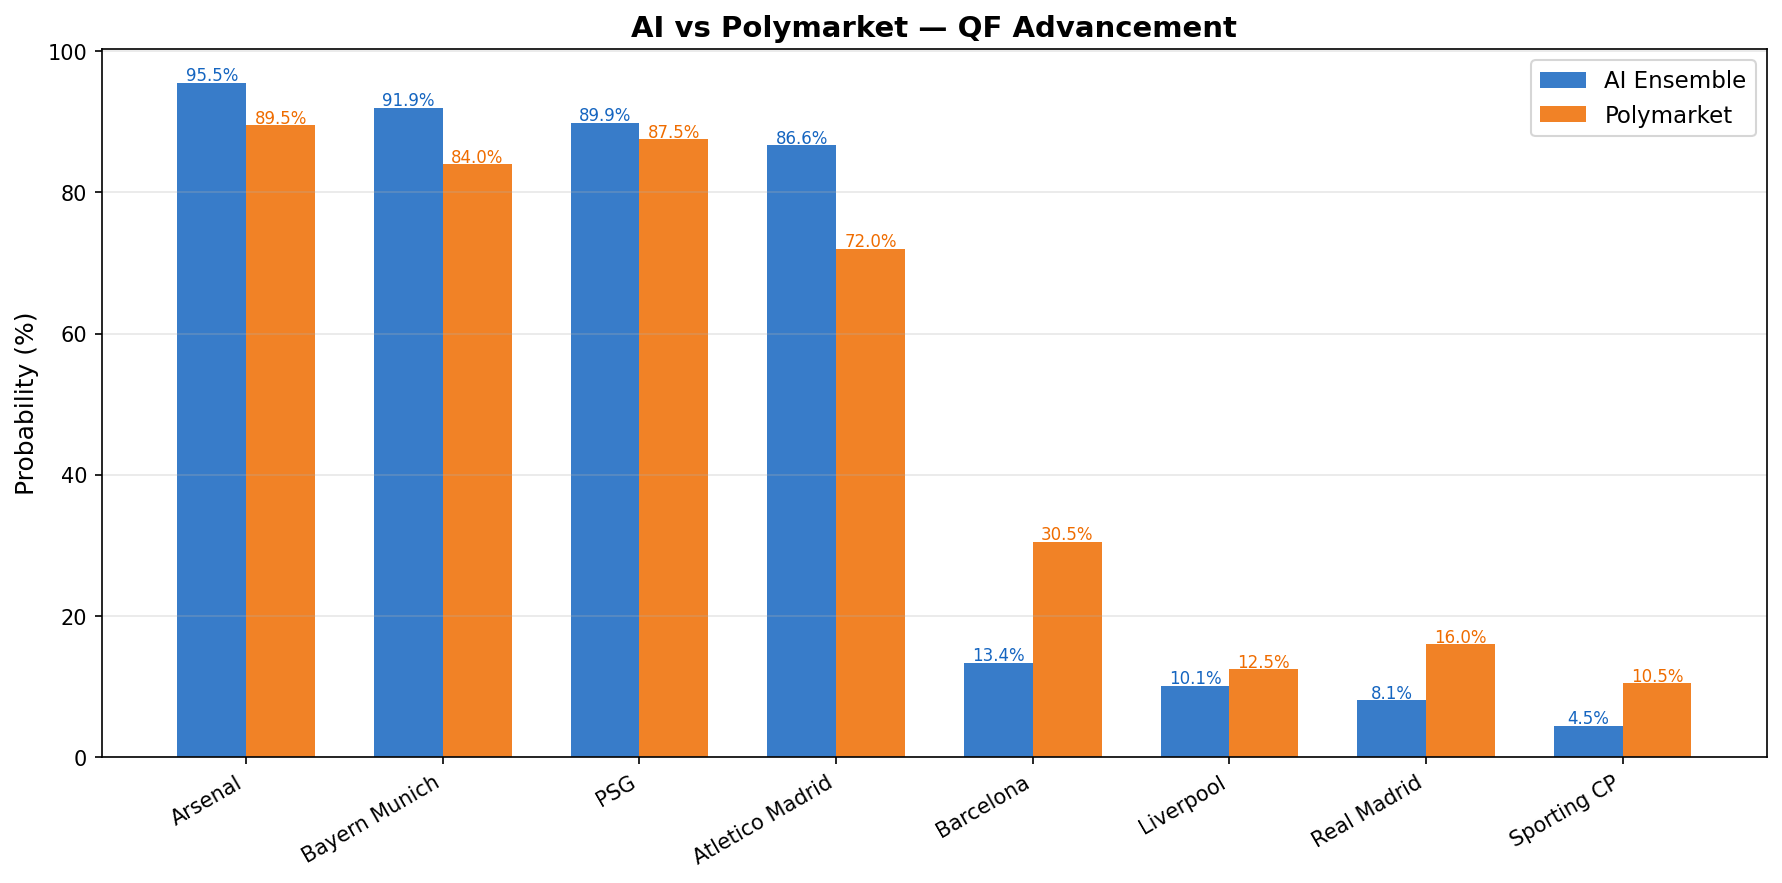
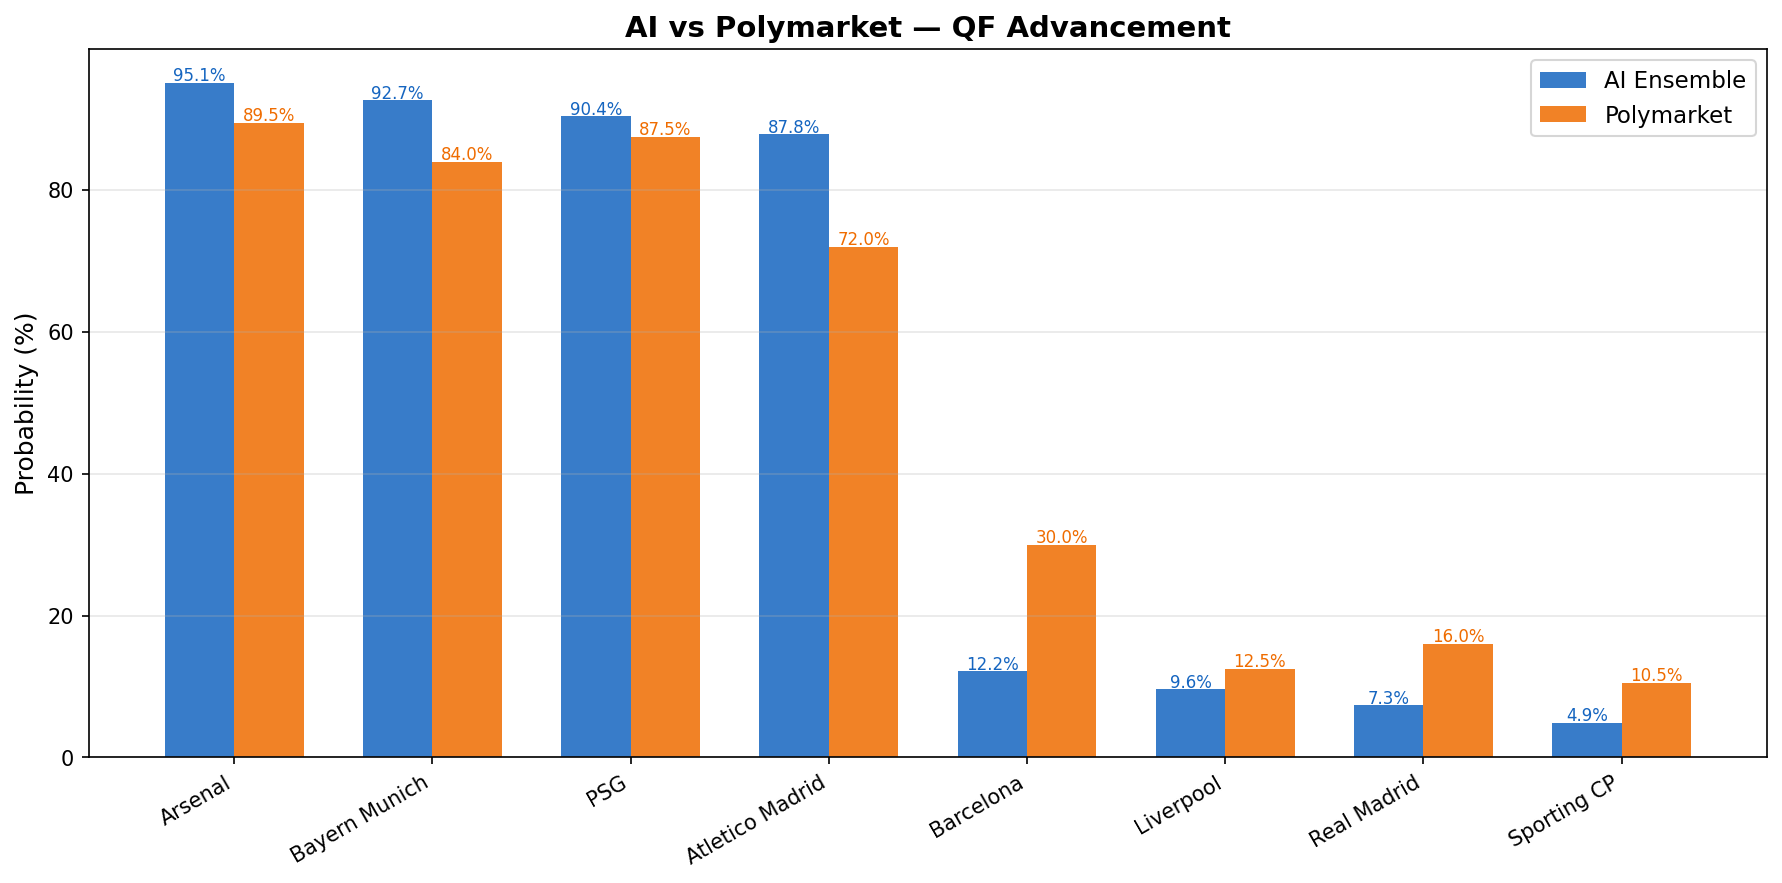
Invert TSFM default: production = Elo-stack, --with-tsfm opt-in
Layer 2 backtest showed TSFM ensemble adds exactly 0 hit-rate over
pure Elo across 83 historical ties — so defaulting to the 5-7 minute
TSFM pipeline was theater. Flipped the defaults:

run_predictions.py
  default:          Elo + first-leg xG + injuries + Polymarket (~15s)
  --with-tsfm:      ADDITIONALLY run the 3-model ensemble (slow,
                    ablation-only)
  --fast/--elo-only: kept silent as hidden backwards-compat aliases

generate_plots.py
  default:          plots driven by Elo-stack predictions (~25s incl.
                    fetching histories for trajectory plots)
  --with-tsfm:      ALSO emit per-team forecast fan charts from the
                    TSFM ensemble

README
  - Tagline no longer leads with TSFM; explicitly names Elo-stack as
    the production layer and TSFM as the ablation layer
  - 'Why TSFM is opt-in, not default' section explains the three
    reasons TSFM is preserved (ablation integrity, quantile bands for
    Kelly, sport/horizon transferability) rather than removed
  - Methodology diagram now shows TSFM as a separately-boxed ablation
    layer instead of the primary path
  - Usage section updated with new flag structure

All plot PNGs regenerated from Elo-stack predictions so the numbers
on the charts match the new default. 77 tests still pass.

diff --git a/generate_plots.py b/generate_plots.py
@@ -1,12 +1,17 @@
-"""Generate all UCL Oracle visualizations."""
+"""Generate all UCL Oracle visualizations.
+
+By default, uses the production Elo-stack (Elo + xG adjustment + injuries).
+Pass ``--with-tsfm`` to additionally run the 3-model TSFM ensemble for the
+ablation-variant plots (champion forecast fan charts are only available in
+this mode, since they need TSFM forecasts).
+"""
 
 from __future__ import annotations
 
+import argparse
 import logging
 import sys
 from pathlib import Path
-
-import pandas as pd
 
 sys.path.insert(0, str(Path(__file__).resolve().parent))
 
@@ -14,49 +19,75 @@ from config import PLOTS_DIR
 from data.fetcher_clubelo import fetch_all_histories
 from data.fetcher_polymarket import fetch_all_ucl_odds
 from data.elo import build_all_weekly_series
-from prediction.strength_forecaster import forecast_all_teams
 from markets.edge_detector import detect_edges
-from run_predictions import run_tsfm_predictions
+from run_predictions import run_elo_baseline, run_tsfm_predictions
 from visualization.bracket_viz import plot_bracket, plot_probability_bars
 from visualization.odds_comparison import plot_scatter, plot_side_by_side, plot_edge_bars
 from visualization.team_form import plot_team_elo_trajectories, plot_team_forecast
 
 
 def main():
+    parser = argparse.ArgumentParser(description="Generate UCL Oracle plots")
+    parser.add_argument(
+        "--with-tsfm",
+        action="store_true",
+        help="Also run the 3-model TSFM ensemble and render its forecast "
+             "fan charts. Slow (~5-7 min extra). Default uses Elo-stack only.",
+    )
+    args = parser.parse_args()
+
     logging.basicConfig(level=logging.INFO, format="%(asctime)s  %(message)s")
 
     print("Generating UCL Oracle plots …\n")
 
-    # Run the same TSFM ensemble pipeline as run_predictions.py
-    ensemble_df, champion_probs, model_champ, model_tourn = run_tsfm_predictions()
+    if args.with_tsfm:
+        # Full TSFM ablation run
+        ensemble_df, champion_probs, model_champ, model_tourn = run_tsfm_predictions()
+        histories = fetch_all_histories()
+        weekly_series = build_all_weekly_series(histories)
+        # Lazy import — TSFM models only needed in this branch
+        from prediction.strength_forecaster import forecast_all_teams
+        forecasts = forecast_all_teams(weekly_series)
+        predictions_df = ensemble_df
+        per_model_champ = model_champ
+        per_model_tourn = model_tourn
+    else:
+        # Default: production Elo-stack
+        predictions_df, champion_probs = run_elo_baseline()
+        histories = fetch_all_histories()
+        weekly_series = build_all_weekly_series(histories)
+        forecasts = None
+        per_model_champ = None
+        per_model_tourn = None
 
-    # Load weekly series and TSFM forecasts for trajectory/forecast plots
-    histories = fetch_all_histories()
-    weekly_series = build_all_weekly_series(histories)
-    forecasts = forecast_all_teams(weekly_series)
-
-    # Fetch Polymarket
     odds = fetch_all_ucl_odds()
 
-    # ── Generate plots ──────────────────────────────────────────────────
     print("\n--- Generating plots ---")
 
-    # 1. Bracket (uses ensemble results)
-    plot_bracket(ensemble_df)
+    # 1. Bracket
+    plot_bracket(
+        predictions_df,
+        subtitle="TSFM Ensemble + Elo" if args.with_tsfm else
+                 "Elo + first-leg xG + injury-weighted Elo",
+    )
 
     # 2. Champion probability bars
-    plot_probability_bars(ensemble_df)
+    plot_probability_bars(
+        predictions_df,
+        subtitle="TSFM Ensemble" if args.with_tsfm else "Elo-stack",
+    )
 
-    # 3. Elo trajectories
+    # 3. Elo trajectories (always useful, no TSFM needed)
     plot_team_elo_trajectories(weekly_series)
 
-    # 4. Per-team TSFM forecast fan charts
-    for team in weekly_series:
-        team_forecasts = {mn: forecasts[mn][team] for mn in forecasts}
-        plot_team_forecast(team, weekly_series[team], team_forecasts)
+    # 4. Per-team TSFM forecast fan charts — only meaningful with TSFM
+    if args.with_tsfm and forecasts is not None:
+        for team in weekly_series:
+            team_forecasts = {mn: forecasts[mn][team] for mn in forecasts}
+            plot_team_forecast(team, weekly_series[team], team_forecasts)
 
     # 5. AI vs Polymarket scatter/bars
-    qf_advance_probs = dict(zip(ensemble_df["team"], ensemble_df["P(qf_advance)"]))
+    qf_advance_probs = dict(zip(predictions_df["team"], predictions_df["P(qf_advance)"]))
 
     winner_df = odds.get("winner")
     if winner_df is not None and not winner_df.empty:
@@ -64,10 +95,10 @@ def main():
         plot_scatter(champion_probs, winner_market, "AI vs Polymarket — UCL Winner")
         plot_side_by_side(champion_probs, winner_market, "AI vs Polymarket — UCL Winner")
 
-        edges = detect_edges(champion_probs, winner_market, model_probs=model_champ)
+        edges = detect_edges(champion_probs, winner_market, model_probs=per_model_champ)
         if not edges.empty:
             plot_edge_bars(edges, "UCL Winner — Edge Detection",
-                          PLOTS_DIR / "winner_edges.png")
+                           PLOTS_DIR / "winner_edges.png")
 
     semis_df = odds.get("semis")
     if semis_df is not None and not semis_df.empty:
@@ -79,16 +110,17 @@ def main():
                           "AI vs Polymarket — QF Advancement",
                           PLOTS_DIR / "ai_vs_polymarket_qf_bars.png")
 
-        model_qf_probs = {}
-        for mn in model_champ:
-            model_qf_probs[mn] = {
-                team: model_tourn[mn][team]["qf_advance"]
-                for team in model_tourn[mn]
+        if per_model_tourn is not None:
+            model_qf_probs = {
+                mn: {t: per_model_tourn[mn][t]["qf_advance"] for t in per_model_tourn[mn]}
+                for mn in per_model_tourn
             }
+        else:
+            model_qf_probs = None
         adv_edges = detect_edges(qf_advance_probs, semis_market, model_probs=model_qf_probs)
         if not adv_edges.empty:
             plot_edge_bars(adv_edges, "QF Advancement — Edge Detection",
-                          PLOTS_DIR / "qf_advance_edges.png")
+                           PLOTS_DIR / "qf_advance_edges.png")
 
     print(f"\nAll plots saved to {PLOTS_DIR}/")
 

diff --git a/run_predictions.py b/run_predictions.py
@@ -442,25 +442,35 @@ if __name__ == "__main__":
     parser = argparse.ArgumentParser(
         description="UCL Oracle Predictions",
         epilog=(
-            "Layer 2 backtest (see backtest/results/layer2_tsfm_ensemble.md) "
-            "showed the TSFM ensemble adds ≤1pp hit-rate over Elo alone, "
-            "so --fast is usually the right choice for day-to-day runs."
+            "Default runs the production stack (Elo + first-leg xG + injuries + "
+            "Monte Carlo → Polymarket). Add --with-tsfm to additionally run the "
+            "3 foundation-model ensemble as an ablation; it added ≤1pp hit rate "
+            "in the Layer 2 backtest, so it's kept purely for research/comparison."
         ),
     )
-    parser.add_argument(
-        "--fast", "--elo-only",
-        dest="fast",
+    mode = parser.add_mutually_exclusive_group()
+    mode.add_argument(
+        "--with-tsfm", "--full",
+        dest="with_tsfm",
         action="store_true",
-        help="Skip TSFM ensemble (Chronos/TimesFM/FlowState). ~30× faster "
-             "(~10s vs 5-7 min). Keeps xG + injury adjustments. "
-             "Recommended default for day-to-day runs.",
+        help="ALSO run the TSFM ensemble (Chronos-2 + TimesFM-2.5 + FlowState). "
+             "Slow (~5-7 min extra). Use for ablation / research / uncertainty "
+             "bands, not for point-prediction quality.",
+    )
+    # Kept for backwards-compatibility; --fast is now the default behavior
+    mode.add_argument(
+        "--fast", "--elo-only",
+        dest="fast_legacy",
+        action="store_true",
+        help=argparse.SUPPRESS,
     )
     args = parser.parse_args()
 
-    if args.fast:
-        print("▸ Fast mode: skipping TSFM ensemble "
-              "(Layer 2 backtest showed negligible point-prediction improvement).\n")
+    if args.with_tsfm:
+        print("▸ Full mode: running TSFM ensemble in addition to Elo-stack.")
+        print("  (Layer 2 backtest: TSFM adds ≤1pp hit rate; here as ablation.)\n")
+        run_full_pipeline()
+    else:
+        # Default: production Elo-stack only (no TSFM)
         results_df, champion_probs = run_elo_baseline()
         run_polymarket_comparison(results_df, champion_probs)
-    else:
-        run_full_pipeline()

diff --git a/README.md b/README.md
@@ -2,7 +2,7 @@
 
 AI predictions for the 2025-26 UEFA Champions League winner, from the quarterfinal stage onwards.
 
-Uses **TSFM + Club Elo + xG first-leg adjustment + injury-weighted Elo + Poisson Scoreline + Monte Carlo** architecture. Compares predictions against Polymarket odds to find edges.
+Uses **Club Elo + first-leg xG adjustment + injury-weighted Elo + Poisson Scoreline + Monte Carlo** as the production stack, compared against Polymarket odds to find edges. A 3-model TSFM ensemble (Chronos-2 / TimesFM-2.5 / FlowState) is retained behind `--with-tsfm` as an ablation/research layer after a 5-season, 83-tie backtest showed it added no point-prediction skill over pure Elo.
 
 **Author:** [YSKM](https://github.com/YSKM523) | **License:** MIT | **Language:** Python
 
@@ -378,14 +378,7 @@ The adjustment answers the earlier question *"why is PSG so bearish?"* — PSG b
 ## Methodology
 
 ```
-clubelo.com (5yr weekly Elo for 8 teams)
-        │
-        ├── Chronos-2 (Amazon, 120M params)    ─┐
-        ├── TimesFM 2.5 (Google, 200M params)   ├── Elo forecast (8 weeks)
-        └── FlowState (IBM, 9.1M params)       ─┘
-                    │
-                    ▼
-            Equal-weight ensemble
+clubelo.com current-date Elo for 8 teams
                     │
                     ▼
        First-leg Elo adjustment
@@ -393,13 +386,26 @@ clubelo.com (5yr weekly Elo for 8 teams)
      → ΔElo feeds SF/Final simulations
                     │
                     ▼
-       Injury-weighted Elo penalty (NEW)
+       Injury-weighted Elo penalty
     FotMob squad endpoint · market-value tier
      × availability weight → team Elo hit
                     │
                     ▼
          Elo → Poisson goal model
         (team-specific attack/defense)
+
+
+ (Ablation layer, opt-in via --with-tsfm)
+┌─────────────────────────────────────────┐
+│  clubelo 5yr weekly Elo                 │
+│     ├── Chronos-2 (Amazon, 120M)    ─┐  │
+│     ├── TimesFM-2.5 (Google, 200M)   ├─ Elo forecast
+│     └── FlowState (IBM, 9.1M)       ─┘  │
+│                  │                      │
+│        equal-weight ensemble → alt Elo  │
+│  Layer 2 backtest: adds 0 hit-rate vs   │
+│  Elo; retained for ablation integrity.  │
+└─────────────────────────────────────────┘
                     │
                     ▼
           Two-legged tie simulation
@@ -474,17 +480,28 @@ probability mass on Arsenal, Bayern, PSG, and Atletico.
 ## Usage
 
 ```bash
-# Fast mode — Elo + xG + injuries + Polymarket (≈ 10 seconds)
-python run_predictions.py --fast
-
-# Full pipeline — adds TSFM ensemble (≈ 5-7 min, negligible prediction gain)
+# Default — production Elo-stack (Elo + xG + injuries + Polymarket, ~15 seconds)
 python run_predictions.py
 
-# Generate all visualizations
-python generate_plots.py
+# With ablation — ALSO run the 3-model TSFM ensemble (~5-7 min extra)
+python run_predictions.py --with-tsfm
+
+# Visualizations
+python generate_plots.py                # default = Elo-stack plots
+python generate_plots.py --with-tsfm    # also generate TSFM forecast fan charts
 ```
 
-`--fast` skips the TSFM time-series forecasters (Chronos-2, TimesFM-2.5, FlowState) and goes straight from current Elo → xG/injury adjustment → Monte Carlo. The [Layer 2 backtest](backtest/results/layer2_tsfm_ensemble.md) across 83 historical ties showed the TSFM ensemble changed the top pick on only 4 ties (2 helpful, 2 harmful) — net zero over pure Elo. Use `--fast` for day-to-day runs; reserve the full pipeline for when you want TSFM's uncertainty bands for Kelly sizing.
+### Why TSFM is opt-in, not default
+
+The [Layer 2 backtest](backtest/results/layer2_tsfm_ensemble.md) across 83 historical knockout ties showed the TSFM ensemble (Chronos-2 + TimesFM-2.5 + FlowState) added **exactly 0 hit-rate** over pure Elo (both 63.9%), moved top-pick on only 4/83 ties (2 helpful, 2 harmful), and improved Brier by 0.001 — effectively noise.
+
+TSFM is **preserved in the codebase for three reasons**, not removed:
+
+1. **Ablation integrity** — the negative result is itself a useful finding; dropping the models would erase the evidence that complexity doesn't help at this horizon
+2. **Uncertainty bands** — TSFM outputs quantile forecasts (q10 / q90) that could be reused for Kelly sizing once a positive-CLV regime is proven
+3. **Extensibility** — a future rebuild on a different sport / longer horizon might actually benefit from time-series foundation models
+
+Day-to-day production runs use only `run_elo_baseline()` → `run_polymarket_comparison()`. The `--with-tsfm` flag turns the ablation layer back on.
 
 ## Setup
 
